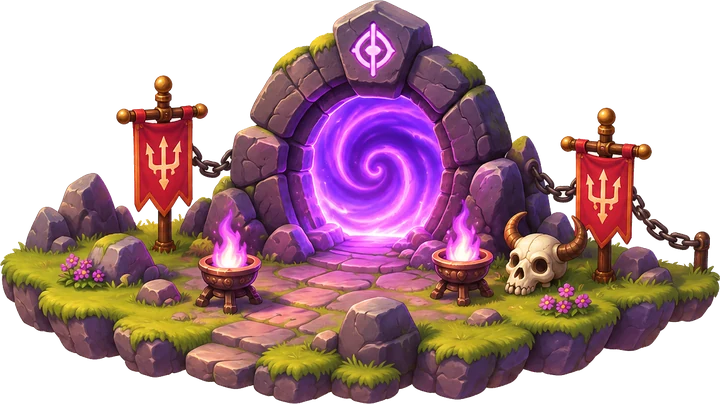
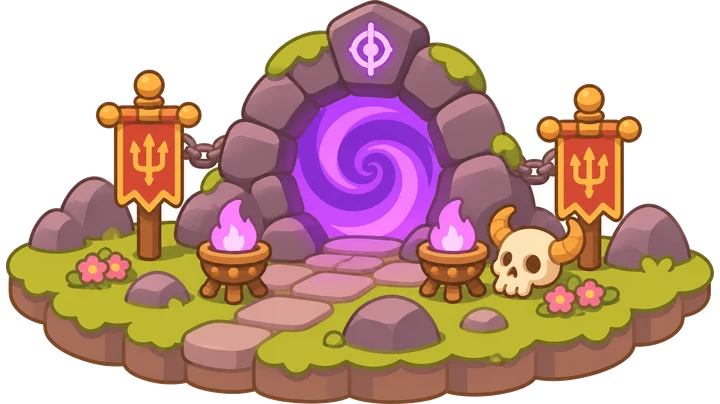
Images des Enfers dans le style minimaliste des dioramas : la bannière et les sept médaillons de la frise (formes plates, contour brun fin, anneau d'or uni), et le diorama du portail de la carte du choix. Redessinés avec GPT d'après la référence minimaliste, même nom, même taille, détourés. Doc

diff --git a/docs/portail-ile.md b/docs/portail-ile.md
@@ -14,7 +14,7 @@ Au large du continent, une île porte une arche : le portail des Enfers. Le gran
 - Rien ne pousse vers le portail avant le grand choix : plus de message à l'arrivée en Antiquité ni de bulle d'aide `portal` (retirée de `warTips.ts`). La tour de garde ne dépend plus d'aucune expédition (`reqMission` retiré) : elle s'ouvre à l'Antiquité, au village comme sur l'île.
 
 ### Le choix : affronter ou refermer
-- **Plus de choix juste après l'ouverture** (décision de l'auteur : « le choix de fermer le portail ne doit pas se faire après cette expédition », mais au grand choix de la fin de l'Antiquité). Ouvert par le grand choix, le portail passe directement à `pve = 'on'` (`War.wake`, `choiceSeen`). Ouvert autrement (bac à sable, expédition d'une ancienne partie), `War.pve` reste `ask` : aucune carte ne s'ouvre d'elle-même, aucune invasion ne vient, et le portail tombe dans le grand choix (`hellWay` le compte comme une voie à prendre ; voir [grand-choix.md](grand-choix.md)). Cette carte-ci (`PortalChoice`) ne sert plus qu'à rouvrir un portail refermé (`off`) et à confirmer « Refermer » (`on`, voir plus bas). Elle suit la maquette de l'auteur (`.claude/maquettes-hud/gpt-exp/portail-gpt.png`, styles « la carte du choix du portail » de `hudTheme.css`) : parchemin bordé d'or, diorama peint du portail qui déborde en haut (`public/ui/portail.webp`, détouré d'une image GPT), titre en Fraunces, encart « Pour les affronter, bâtissez sur l'île du portail (pas au village) » avec les vignettes 3D de la tour de garde et de la caserne à l'âge du village (`thumb`, redessinée tant qu'elles ne sont pas rendues), « puis recrutez une garnison », et deux choix : « Affronter les démons » en or (épées) et « Fermer le portail » (ou « Garder le portail fermé ») en crème (cadenas). Au téléphone, les choix s'empilent.
+- **Plus de choix juste après l'ouverture** (décision de l'auteur : « le choix de fermer le portail ne doit pas se faire après cette expédition », mais au grand choix de la fin de l'Antiquité). Ouvert par le grand choix, le portail passe directement à `pve = 'on'` (`War.wake`, `choiceSeen`). Ouvert autrement (bac à sable, expédition d'une ancienne partie), `War.pve` reste `ask` : aucune carte ne s'ouvre d'elle-même, aucune invasion ne vient, et le portail tombe dans le grand choix (`hellWay` le compte comme une voie à prendre ; voir [grand-choix.md](grand-choix.md)). Cette carte-ci (`PortalChoice`) ne sert plus qu'à rouvrir un portail refermé (`off`) et à confirmer « Refermer » (`on`, voir plus bas). Elle suit la maquette de l'auteur (`.claude/maquettes-hud/gpt-exp/portail-gpt.png`, styles « la carte du choix du portail » de `hudTheme.css`) : parchemin bordé d'or, diorama peint du portail qui déborde en haut (`public/ui/portail.webp`, 720 × 404, détouré d'une image GPT ; redessiné le 18 nov. 2026 dans le style minimaliste des dioramas, avec `dio-portal.webp` en référence, par `.claude/decoupe-enfers.py portail` ; source dans `.claude/maquettes-hud/gpt-exp/enfers/`), titre en Fraunces, encart « Pour les affronter, bâtissez sur l'île du portail (pas au village) » avec les vignettes 3D de la tour de garde et de la caserne à l'âge du village (`thumb`, redessinée tant qu'elles ne sont pas rendues), « puis recrutez une garnison », et deux choix : « Affronter les démons » en or (épées) et « Fermer le portail » (ou « Garder le portail fermé ») en crème (cadenas). Au téléphone, les choix s'empilent.
 - « Affronter les démons » : `acceptPve()` → `pve = 'on'` (les Enfers s'ouvrent). La carte ne montre plus que la caserne (« puis recrutez des soldats : ils passent le portail »), comme la voie des Enfers du grand choix ; le message d'arrivée sur l'île (`isleBrief`) et celui d'une caserne posée au village (`defenseWhere`) ne parlent plus de la tour de garde. « Fermer le portail » : `closePortal()` → `pve = 'off'`, éclat doré (`portalSealed`), tourbillon éteint (`War.closed`, lu par `portalView.update` dans `main.ts`).
 - **On referme à tout moment** (décision de l'auteur du 16 nov. 2026 : « il faut pouvoir le fermer quand on veut »), même en pleine invasion ou après elle ; seul le portail éteint (le royaume tombé, `portalOut`) ne se referme pas. Bouton crème « 🔒 Refermer » au bout du bandeau de l'île, dans tous les états du PvE en cours (`shut` dans `waveStatus`, classe `twb twx`, à côté de l'action principale). Il ouvre la carte du portail en confirmation (`renderShut`) : « Refermer le portail ? », puis ce que la fermeture fait maintenant (vague renvoyée, troupes rapatriées, base laissée, où l'on reprendra), « Vous pourrez le rouvrir quand vous voulez », et deux choix : « Refermer le portail » (or, `close`) ou « Le laisser ouvert » (crème, `keep`). Fermé depuis la vue des Enfers, la vue revient à la surface (`closed` de l'hôte : `exitHell`).
 - Ce que `closePortal` fait :

diff --git a/docs/enfers.md b/docs/enfers.md
@@ -38,7 +38,7 @@ Vie × (1 + 0,1 × (zone − 1)) ; dégâts des tirs × (1 + 0,1 × (zone − 1)
 
 ### L'objectif et son marqueur
 - `nextGoal(hell, from)` : la zone visée est la première non conquise (`conquestFrontier`). Zone fermée par l'âge : `locked` (phrase « Zone suivante fermée : il faut l'âge… »). Sinon l'avant-poste debout le plus proche si la forteresse est plus loin de plus de 5 cases, sinon la forteresse (ou la citadelle) ; plus rien : `done`. `from` = centre des troupes, sinon le point d'arrivée.
-- Interface (`ui/command.ts`) : frise du haut (`frontBar`) du portail au royaume, un médaillon peint par zone (`public/icons/hell/zone-0..6.webp` : portail, braises, volcan, cendres, gorge, cristaux, couronne ; maquette et planche GPT dans `.claude/maquettes-hud/gpt-exp/frise-*.png`) sur un parchemin dans un cadre de fer sombre aux braises (`hudTheme.css`, bloc « frise des Enfers ») : `ok` tenue (coche, le lien d'avant en or), `hot` attaquée (halo rouge qui bat), `cur` à prendre (halo d'or qui luit, nom en cartouche d'or), `lock` et `shut` éteintes avec un cadenas ; à gauche la bannière au trident (`banniere.webp`), « Les Enfers » en Fraunces et la zone en cartouche d'or ; dans les Enfers, le panneau des ressources est masqué et la frise prend sa place en haut ; au bout de la même ligne, l'objectif en capsule crème (`.tfg` : picto des épées croisées + `goalLine`, distance en cases mise à jour à part ; un clic centre la vue, `centerGoal` ; 🔒 et pas de clic quand la zone suivante est fermée par l'âge). Une deuxième ligne (`.tgoal`) ne paraît que pour l'alerte la plus pressante (pilule rouge brique). Plus de « Zone ouverte » (la frise le dit), de « Suivre » (la vue suit d'elle-même après un ordre, un geste reprend la main), ni de compte de l'armée. Coque crème et or comme la barre du bas. Marqueur à l'écran (`frame`) : anneau avec la distance, ou flèche au bord de l'écran vers l'objectif hors vue ; seulement dans le théâtre `hell`.
+- Interface (`ui/command.ts`) : frise du haut (`frontBar`) du portail au royaume, un médaillon peint par zone (`public/icons/hell/zone-0..6.webp` : portail, braises, volcan, cendres, gorge, cristaux, couronne ; depuis le 18 nov. 2026 dans le style minimaliste des dioramas, comme la bannière : formes plates, contour brun fin, anneau d'or uni. Recette : une planche GPT 4 × 2 sur fond blanc, avec en pièces jointes `reference-style-minimaliste.webp` et l'ancienne planche, puis `.claude/decoupe-enfers.py frise` détoure, découpe et réduit (128 × 128, bannière 113 × 160) ; planches et anciennes images dans `.claude/maquettes-hud/gpt-exp/enfers/`) sur un parchemin dans un cadre de fer sombre aux braises (`hudTheme.css`, bloc « frise des Enfers ») : `ok` tenue (coche, le lien d'avant en or), `hot` attaquée (halo rouge qui bat), `cur` à prendre (halo d'or qui luit, nom en cartouche d'or), `lock` et `shut` éteintes avec un cadenas ; à gauche la bannière au trident (`banniere.webp`), « Les Enfers » en Fraunces et la zone en cartouche d'or ; dans les Enfers, le panneau des ressources est masqué et la frise prend sa place en haut ; au bout de la même ligne, l'objectif en capsule crème (`.tfg` : picto des épées croisées + `goalLine`, distance en cases mise à jour à part ; un clic centre la vue, `centerGoal` ; 🔒 et pas de clic quand la zone suivante est fermée par l'âge). Une deuxième ligne (`.tgoal`) ne paraît que pour l'alerte la plus pressante (pilule rouge brique). Plus de « Zone ouverte » (la frise le dit), de « Suivre » (la vue suit d'elle-même après un ordre, un geste reprend la main), ni de compte de l'armée. Coque crème et or comme la barre du bas. Marqueur à l'écran (`frame`) : anneau avec la distance, ou flèche au bord de l'écran vers l'objectif hors vue ; seulement dans le théâtre `hell`.
 
 ### La base avancée (`BASE_DEFS`, `hellBase.ts`)
 Payée par le village (bois, pierre, minerai ; bac à sable gratuit). Rayon d'emprise `r`, nombre maximal `max` **par base** (camp de la zone).
